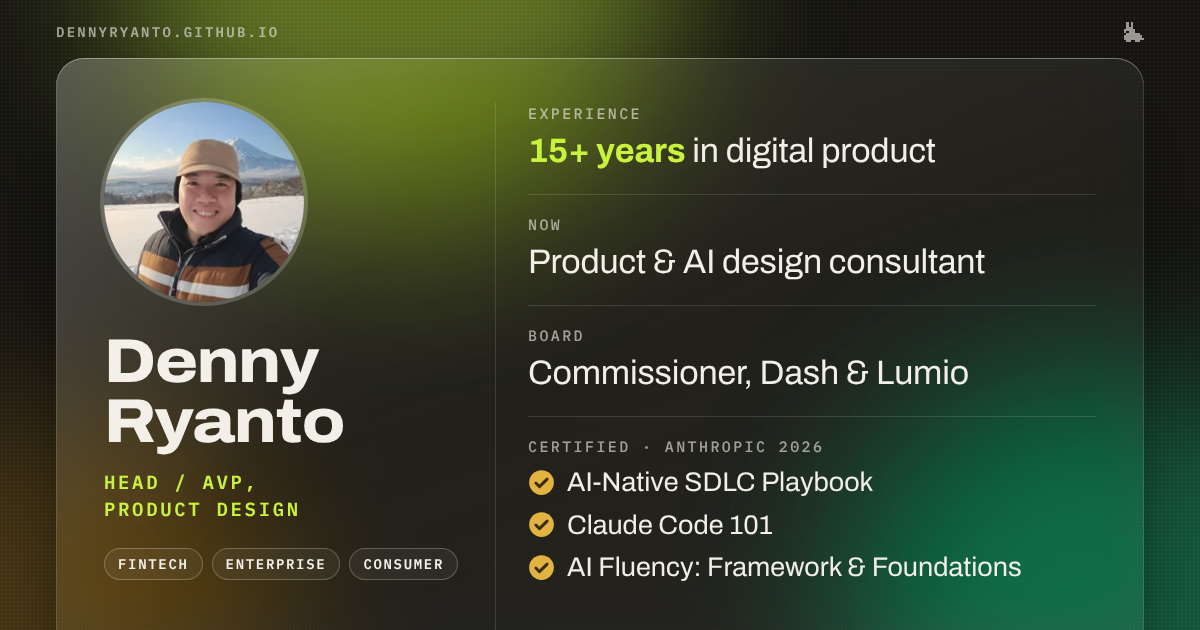
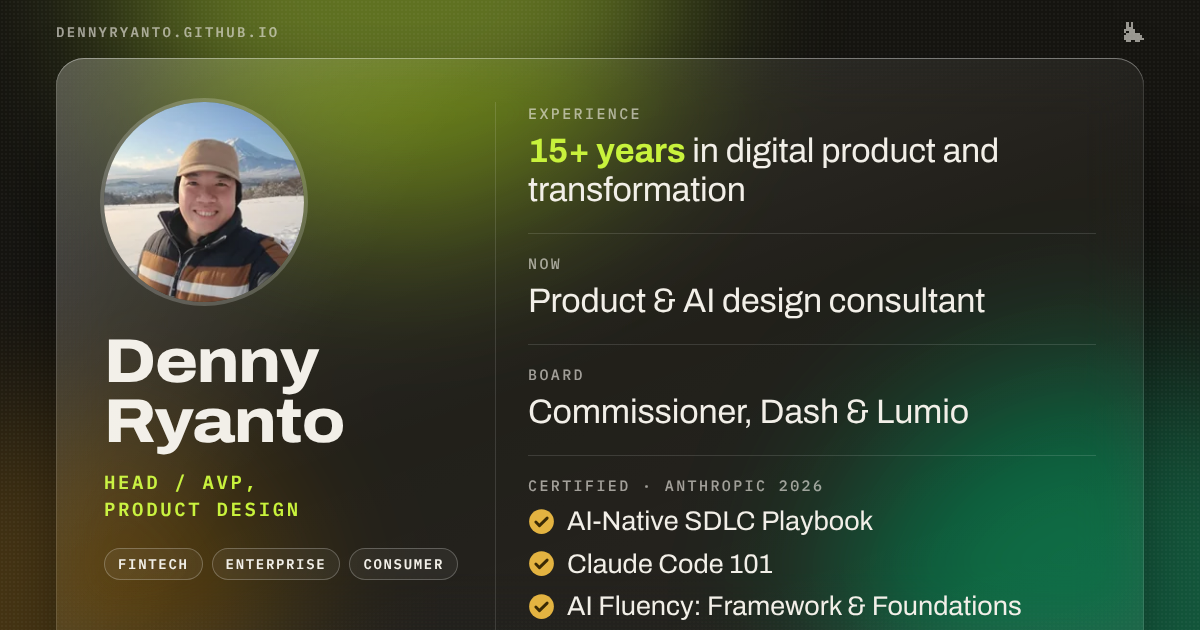
Link preview: 15+ years in digital product and transformation
Claude-Session: https://claude.ai/code/session_016yfkGv65xPrbCBbjEeutQB

diff --git a/index.html b/index.html
@@ -14,7 +14,7 @@
 <meta property="og:image" content="https://dennyryanto.github.io/assets/og-image.png">
 <meta property="og:image:width" content="1200">
 <meta property="og:image:height" content="630">
-<meta property="og:image:alt" content="Profile card: Denny Ryanto, Head / AVP Product Design. 15+ years in digital product, product and AI design consultant, commissioner at Dash and Lumio, three Anthropic certificates.">
+<meta property="og:image:alt" content="Profile card: Denny Ryanto, Head / AVP Product Design. 15+ years in digital product and transformation, product and AI design consultant, commissioner at Dash and Lumio, three Anthropic certificates.">
 <meta name="twitter:card" content="summary_large_image">
 <meta name="twitter:image" content="https://dennyryanto.github.io/assets/og-image.png">
 <link rel="canonical" href="https://dennyryanto.github.io/">

diff --git a/design/tools/og_image.js b/design/tools/og_image.js
@@ -100,7 +100,7 @@ body { position: relative; color: #f2efe8; font-family: Archivo, sans-serif; -we
     <div class="chips"><i>FINTECH</i><i>ENTERPRISE</i><i>CONSUMER</i></div>
   </div>
   <div class="rows">
-    <div class="row"><i>EXPERIENCE</i><p><b>15+ years</b> in digital product</p></div>
+    <div class="row"><i>EXPERIENCE</i><p><b>15+ years</b> in digital product and transformation</p></div>
     <div class="row"><i>NOW</i><p>Product &amp; AI design consultant</p></div>
     <div class="row"><i>BOARD</i><p>Commissioner, Dash &amp; Lumio</p></div>
     <div class="row"><i>CERTIFIED · ANTHROPIC 2026</i><div class="certs"><div>${SEAL}AI-Native SDLC Playbook</div><div>${SEAL}Claude Code 101</div><div>${SEAL}AI Fluency: Framework &amp; Foundations</div></div></div>

diff --git a/design/tools/build_site.py b/design/tools/build_site.py
@@ -128,7 +128,7 @@ HEAD = '''<!doctype html>
 <meta property="og:image" content="https://dennyryanto.github.io/assets/og-image.png">
 <meta property="og:image:width" content="1200">
 <meta property="og:image:height" content="630">
-<meta property="og:image:alt" content="Profile card: Denny Ryanto, Head / AVP Product Design. 15+ years in digital product, product and AI design consultant, commissioner at Dash and Lumio, three Anthropic certificates.">
+<meta property="og:image:alt" content="Profile card: Denny Ryanto, Head / AVP Product Design. 15+ years in digital product and transformation, product and AI design consultant, commissioner at Dash and Lumio, three Anthropic certificates.">
 <meta name="twitter:card" content="summary_large_image">
 <meta name="twitter:image" content="https://dennyryanto.github.io/assets/og-image.png">
 <link rel="canonical" href="https://dennyryanto.github.io/">
